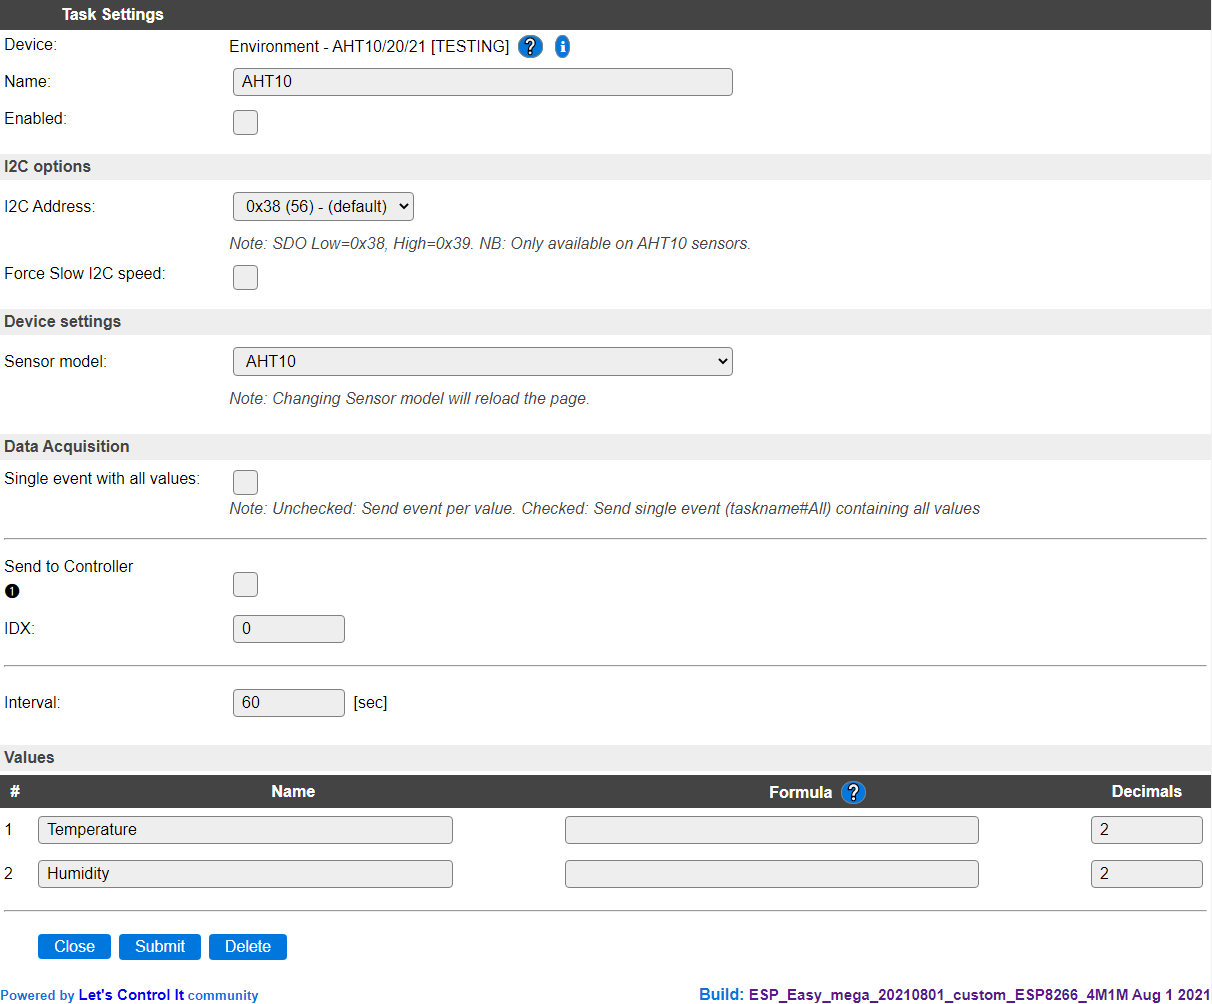
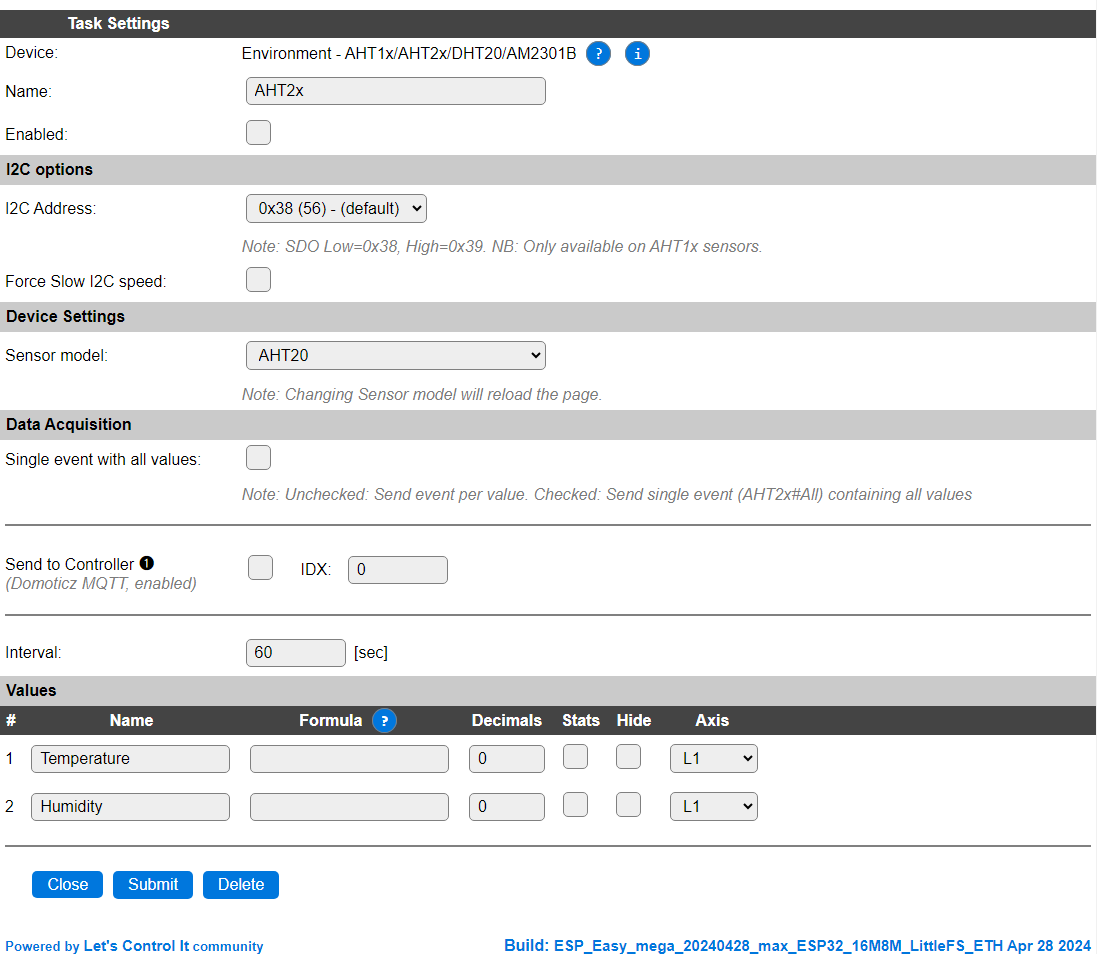
[P105] Update plugin name and documentation

diff --git a/docs/source/Plugin/P105.rst b/docs/source/Plugin/P105.rst
@@ -26,57 +26,59 @@ Datasheet: |P105_datasheet| |P105_datasheet2| |P105_datasheet3|
 Description
 -----------
 
-The AHT10/AHT20/AHT21 sensors provide Temperature and Humidity measurements (factory calibrated), via an I2C bus connection.
+The AHT10/AHT15/AHT20/AHT21/DHT20/AM2301B sensors provide Temperature and Humidity measurements (factory calibrated), via an I2C bus connection.
 
 .. warning::
 
-  * The **AHT10** device does sometimes not 'play nice' when there are also other I2C devices on the same bus (many complaints can be found on the internet). NB: This may be hardware-, vendor-, or chip-revision-specific.
+  * The **AHT10** and **AHT15** devices do sometimes not 'play nice' when there are also other I2C devices on the same bus (many complaints can be found on the internet). NB: This may be hardware-, vendor-, or chip-revision-specific.
 
 Because of this peculiarity, other sensors may be more appropriate, like the AHT20/AHT21 also supported by this plugin, or :ref:`P028_page`, :ref:`P106_page`, :ref:`P014_page`, :ref:`P034_page`, :ref:`P051_page`, :ref:`P068_page` or :ref:`P072_page`.
 
 This plugin tries to avoid such situations (I2C bus lock) by (soft) resetting the sensor if it doesn't respond for some time.
+
+This plugin also supports the **DHT20** and **AM2301B** sensors, as these are just **AHT20** sensors with a specific housing.
 
 Settings
 --------
 
 .. image:: P105_DeviceConfiguration.png
 
-**Name**: The name for this task, should be unique.
+* **Name**: The name for this task, should be unique.
 
-**Enabled**: Allows to enable/disable the device.
+* **Enabled**: Allows to enable/disable the device.
 
 I2C Options 
 ^^^^^^^^^^^^
 
 The available settings here depend on the build used. At least the **Force Slow I2C speed** option is available, but selections for the I2C Multiplexer can also be shown. For details see the :ref:`Hardware_page`
 
-**I2C Address**: The address the device is using. The AHT10 sensor allows to select a secondary address by pulling the AO (sometimes marked as A0) pin to high (3.3V) to select the secondary address. That address should then be selected here too. The AHT20/AHT21 sensors only support a single I2C address, so it will be forced to the default address.
+* **I2C Address**: The address the device is using. The AHT10 sensor allows to select a secondary address by pulling the AO (sometimes marked as A0) pin to high (3.3V) to select the secondary address. That address should then be selected here too. The AHT20/AHT21 based sensors only support a single I2C address, so it will be forced to the default address.
 
 Device Settings
 ^^^^^^^^^^^^^^^^
 
-If the plugin is configured for **Sensor model** AHT10 and other devices configured in a task use the I2C bus, a warning is displayed (see example below) that combining them with this device may cause issues on the I2C bus, resulting in all I2C devices no longer working as intended. This may occur immediately, or only after some time, like 10 minutes or an hour.
+If the plugin is configured for **Sensor model** AHT1x and other devices configured in a task use the I2C bus, a warning is displayed (see example below) that combining them with this device may cause issues on the I2C bus, resulting in all I2C devices no longer working as intended. This may occur immediately, or only after some time, like 10 minutes or an hour.
 
 .. image:: P105_DeviceWarning.png
 
-**Sensor model** Selection of the connected type of hardware. (AHT2x sensors have a slightly different intialization.)
+* **Sensor model** Selection of the connected type of hardware. (AHT2x based sensors have a slightly different intialization.)
 
 Available options:
 
 .. image:: P105_SensorModelOptions.png
 
-**AHT10** This sensor model should better be avoided, as it doesn't always work with other devices on the same I2C bus. Also, the AHT15 can be used, but that has similar issues.
+**AHT1x** AHT10/AHT15. These sensor models should better be avoided, as it doesn't always work with other devices on the same I2C bus.
 
-**AHT20** An more modern version of the sensor.
+**AHT20** An more modern version of the sensor. Use this option also when connecting a DHT20 or AM2301B sensor.
 
-**AHT20** An more modern version of the sensor, very similar to the AHT20, in a more compact chip package.
+**AHT21** An more modern version of the sensor, very similar to the AHT20, in a more compact chip package.
 
 Data Acquisition
 ^^^^^^^^^^^^^^^^
 
 This group of settings, **Single event with all values**, **Send to Controller** and **Interval** settings are standard available configuration items. Send to Controller is only visible when one or more Controllers are configured.
 
-**Interval** By default, Interval will be set to 60 sec. It is the frequency used to read sensor values and send these to any Controllers configured for this device.
+* **Interval** By default, Interval will be set to 60 sec. It is the frequency used to read sensor values and send these to any Controllers configured for this device.
 
 Values
 ^^^^^^
